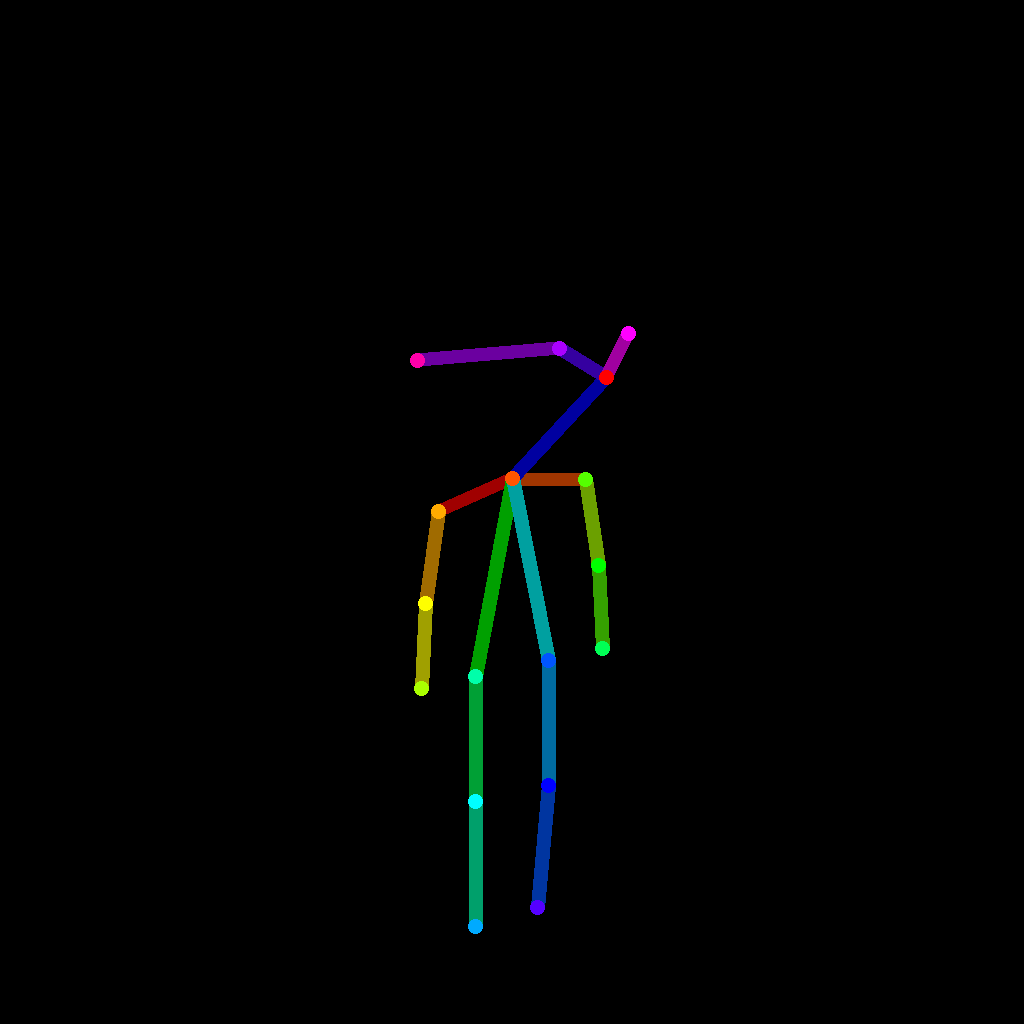
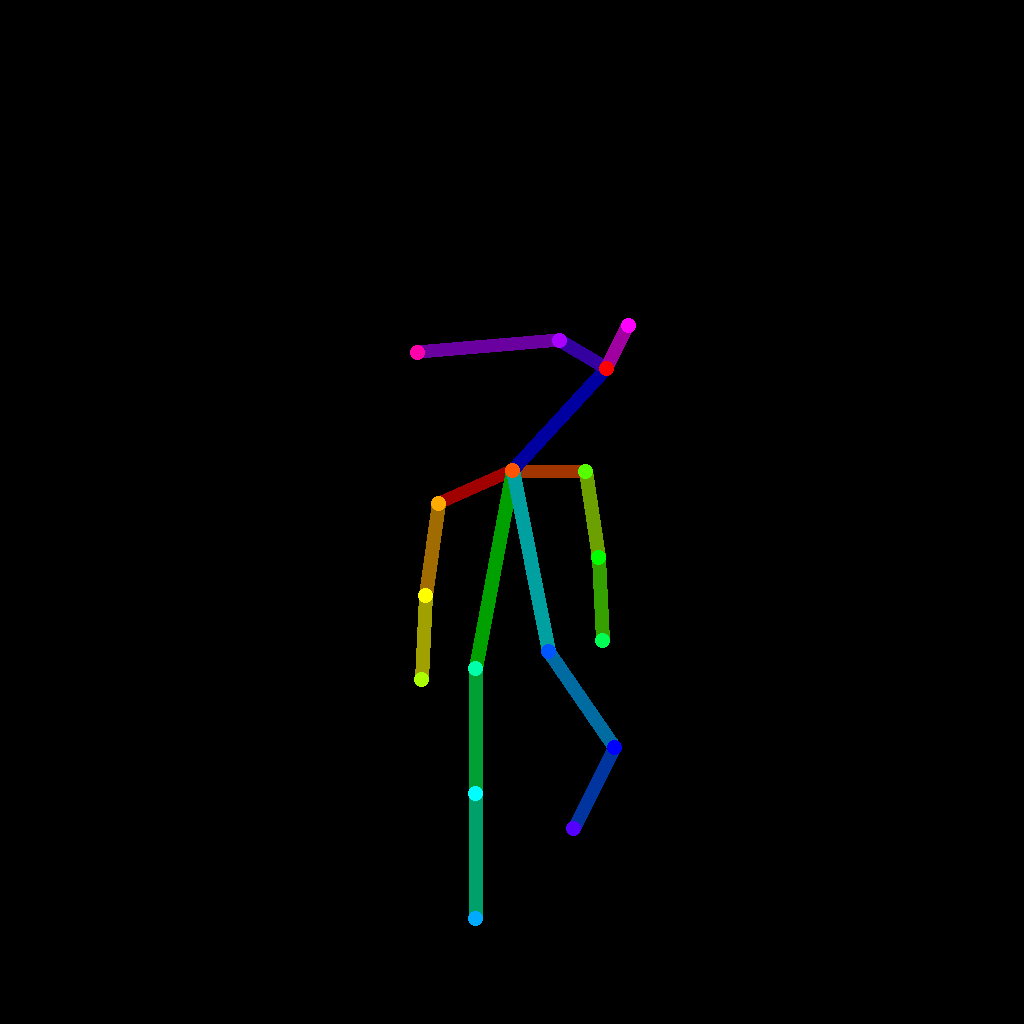
Poses: bigger stride and a lifted knee on the passing frames
The front and back walk frames barely differed (the leg swing points at
the camera), and the two passing frames were the same pose.

Claude-Session: https://claude.ai/code/session_016gJ6h7fwHSB3wbPLZqVGQo

diff --git a/tools/art/make_poses.py b/tools/art/make_poses.py
@@ -22,16 +22,22 @@ COLORS = [(255, 0, 0), (255, 85, 0), (255, 170, 0), (255, 255, 0), (170, 255, 0)
 def body(phase=None, strike=False):
     """The skeleton in body space: x = the character's right, y = up, z = forward (where it faces)."""
     sw = 0.0 if phase is None else math.sin(phase)
-    leg = math.radians(28) * sw      # right leg swing (left is opposite)
-    arm = math.radians(24) * sw      # arms swing opposite to the legs
-    bob = 0.0 if phase is None else 0.04 * abs(math.cos(phase))
+    pas = 0.0 if phase is None else math.cos(phase)   # passing frames: +1 lifts the right leg, -1 the left
+    leg = math.radians(36) * sw      # right leg swing (left is opposite)
+    arm = math.radians(30) * sw      # arms swing opposite to the legs
+    bob = 0.0 if phase is None else 0.07 * abs(pas)
     p = {}
     hip_y = 0.9 + bob
     for side, s, a_leg in (('R', 1, leg), ('L', -1, -leg)):
         hip = (0.18 * s, hip_y, 0.0)
-        knee = (0.18 * s, hip_y - 0.45 * math.cos(a_leg), 0.45 * math.sin(a_leg))
-        bend = 0.12 if (phase is not None and a_leg < 0) else 0.0   # the back leg bends a little
-        ankle = (0.18 * s, knee[1] - 0.45 * math.cos(a_leg - bend), knee[2] + 0.45 * math.sin(a_leg - bend))
+        lift = max(0.0, pas * s)     # this leg is swinging through, knee raised and foot off the ground
+        if lift > 0.5:
+            knee = (0.2 * s, hip_y - 0.3, 0.3)
+            ankle = (0.2 * s, hip_y - 0.62, 0.1)
+        else:
+            knee = (0.18 * s, hip_y - 0.45 * math.cos(a_leg), 0.45 * math.sin(a_leg))
+            bend = 0.12 if (phase is not None and a_leg < 0) else 0.0   # the back leg bends a little
+            ankle = (0.18 * s, knee[1] - 0.45 * math.cos(a_leg - bend), knee[2] + 0.45 * math.sin(a_leg - bend))
         p['hip' + side], p['knee' + side], p['ankle' + side] = hip, knee, ankle
     p['neck'] = (0.0, 1.58 + bob, 0.0)
     for side, s, a_arm in (('R', 1, -arm), ('L', -1, arm)):
